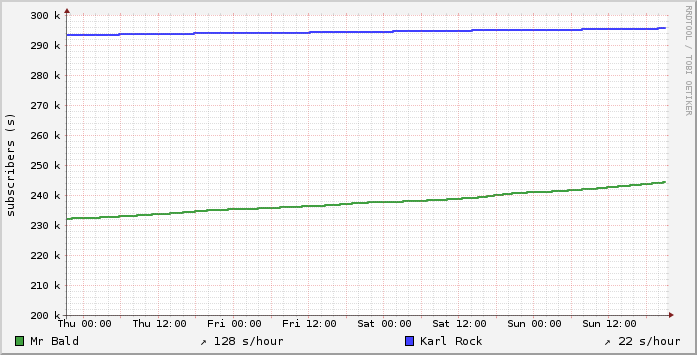
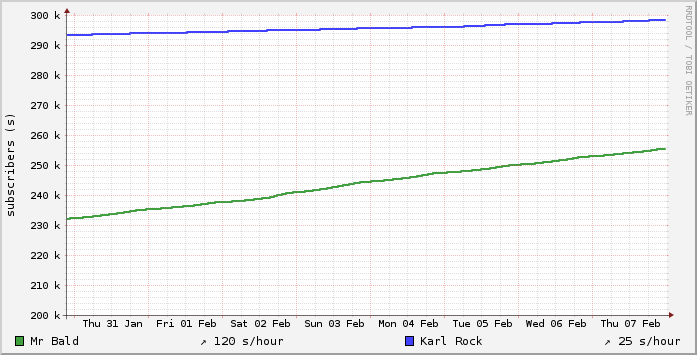
Update Mr Bald graph.

diff --git a/README.md b/README.md
@@ -33,7 +33,7 @@ The script "[mrbald](https://raw.githubusercontent.com/nkoster/yt-subscribers/ma
 
 I'm collecting this data, just for fun.
 
-A graph, generated with rrdtool. From Wed Jan 30 21:14:00 CET 2019 (1548879240) till Sun Feb 3 21:05:02 CET 2019 (1549224302), 5 minute samples, data collected with a cron job:
+A graph, generated with rrdtool. From Wed Jan 30 21:14:00 CET 2019 (1548879240) till Thu Feb 7 23:40:02 CET 2019 (1549224302), 5 minute samples, data collected with a cron job:
 
 ![Mr Bald and Karl Rock](https://raw.githubusercontent.com/nkoster/yt-subscribers/master/mrbald.png "Mr Bald and Karl Rock")
 
